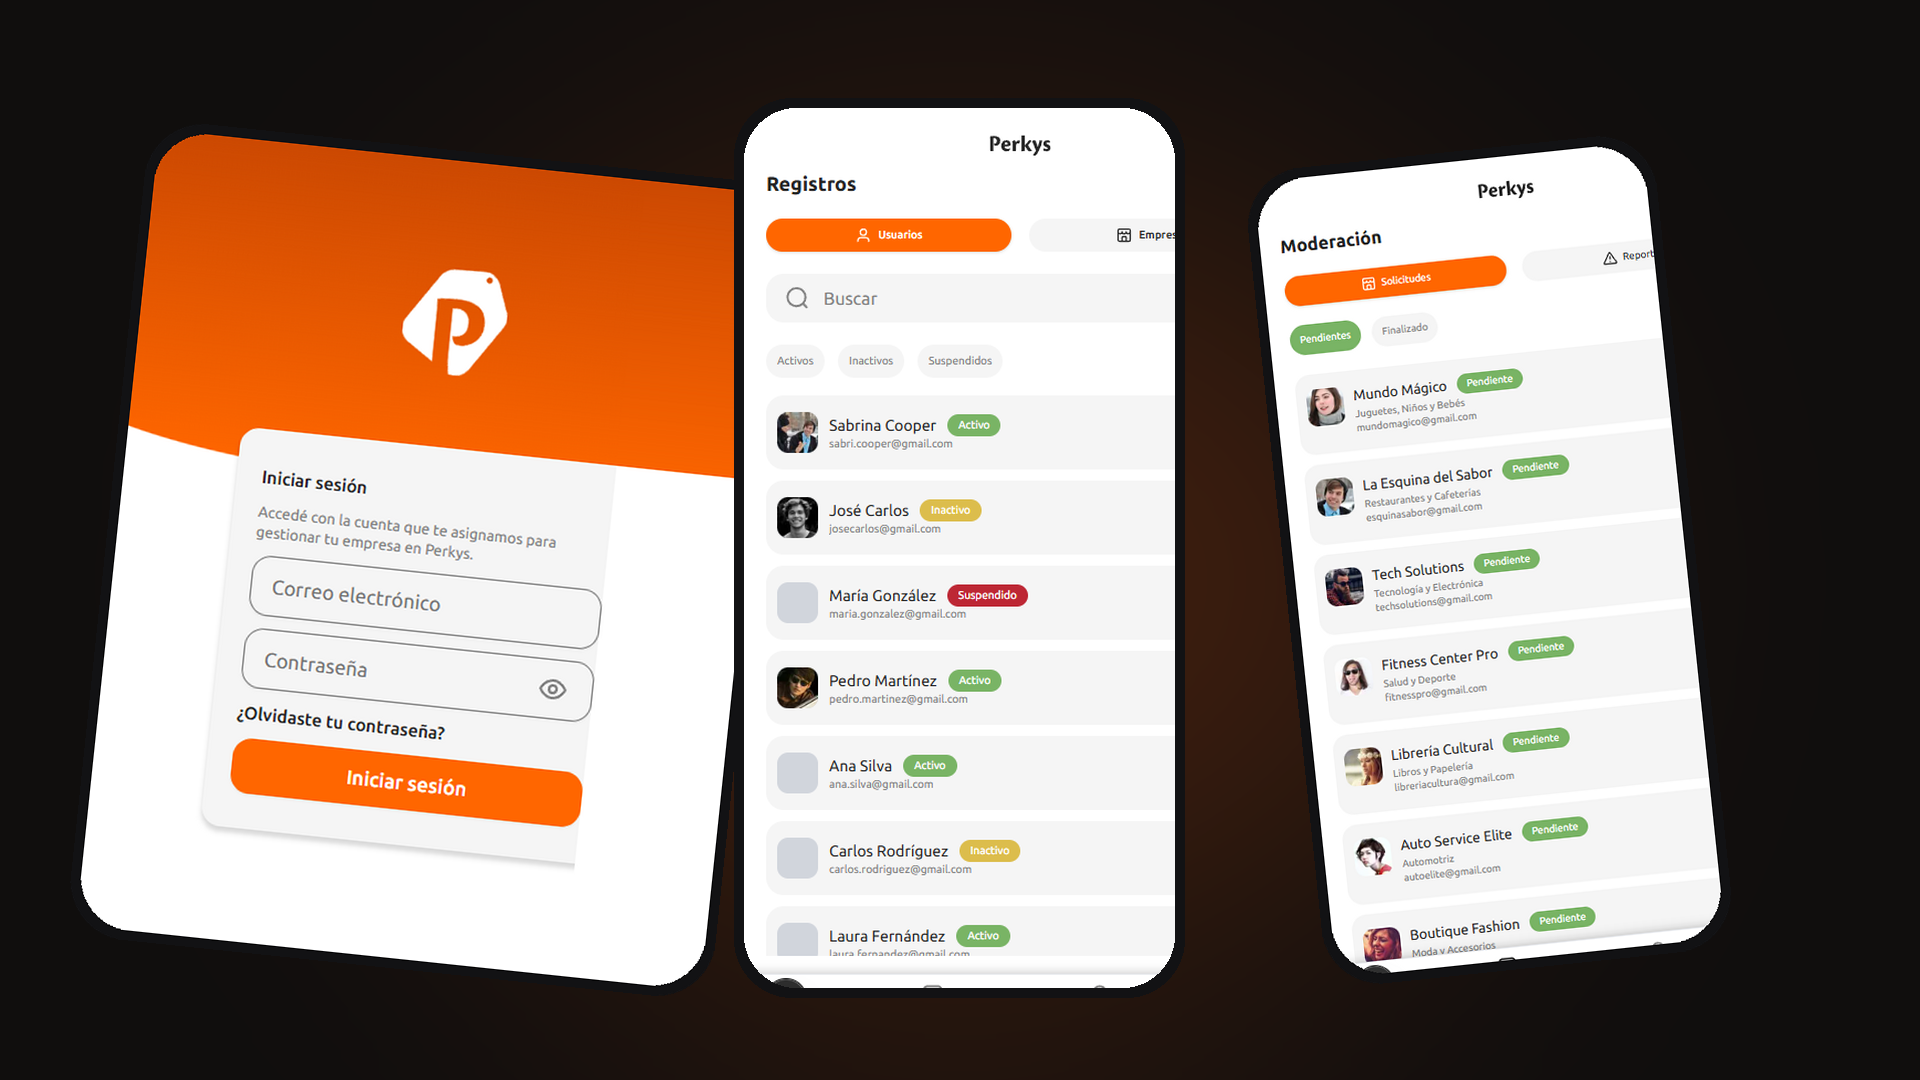
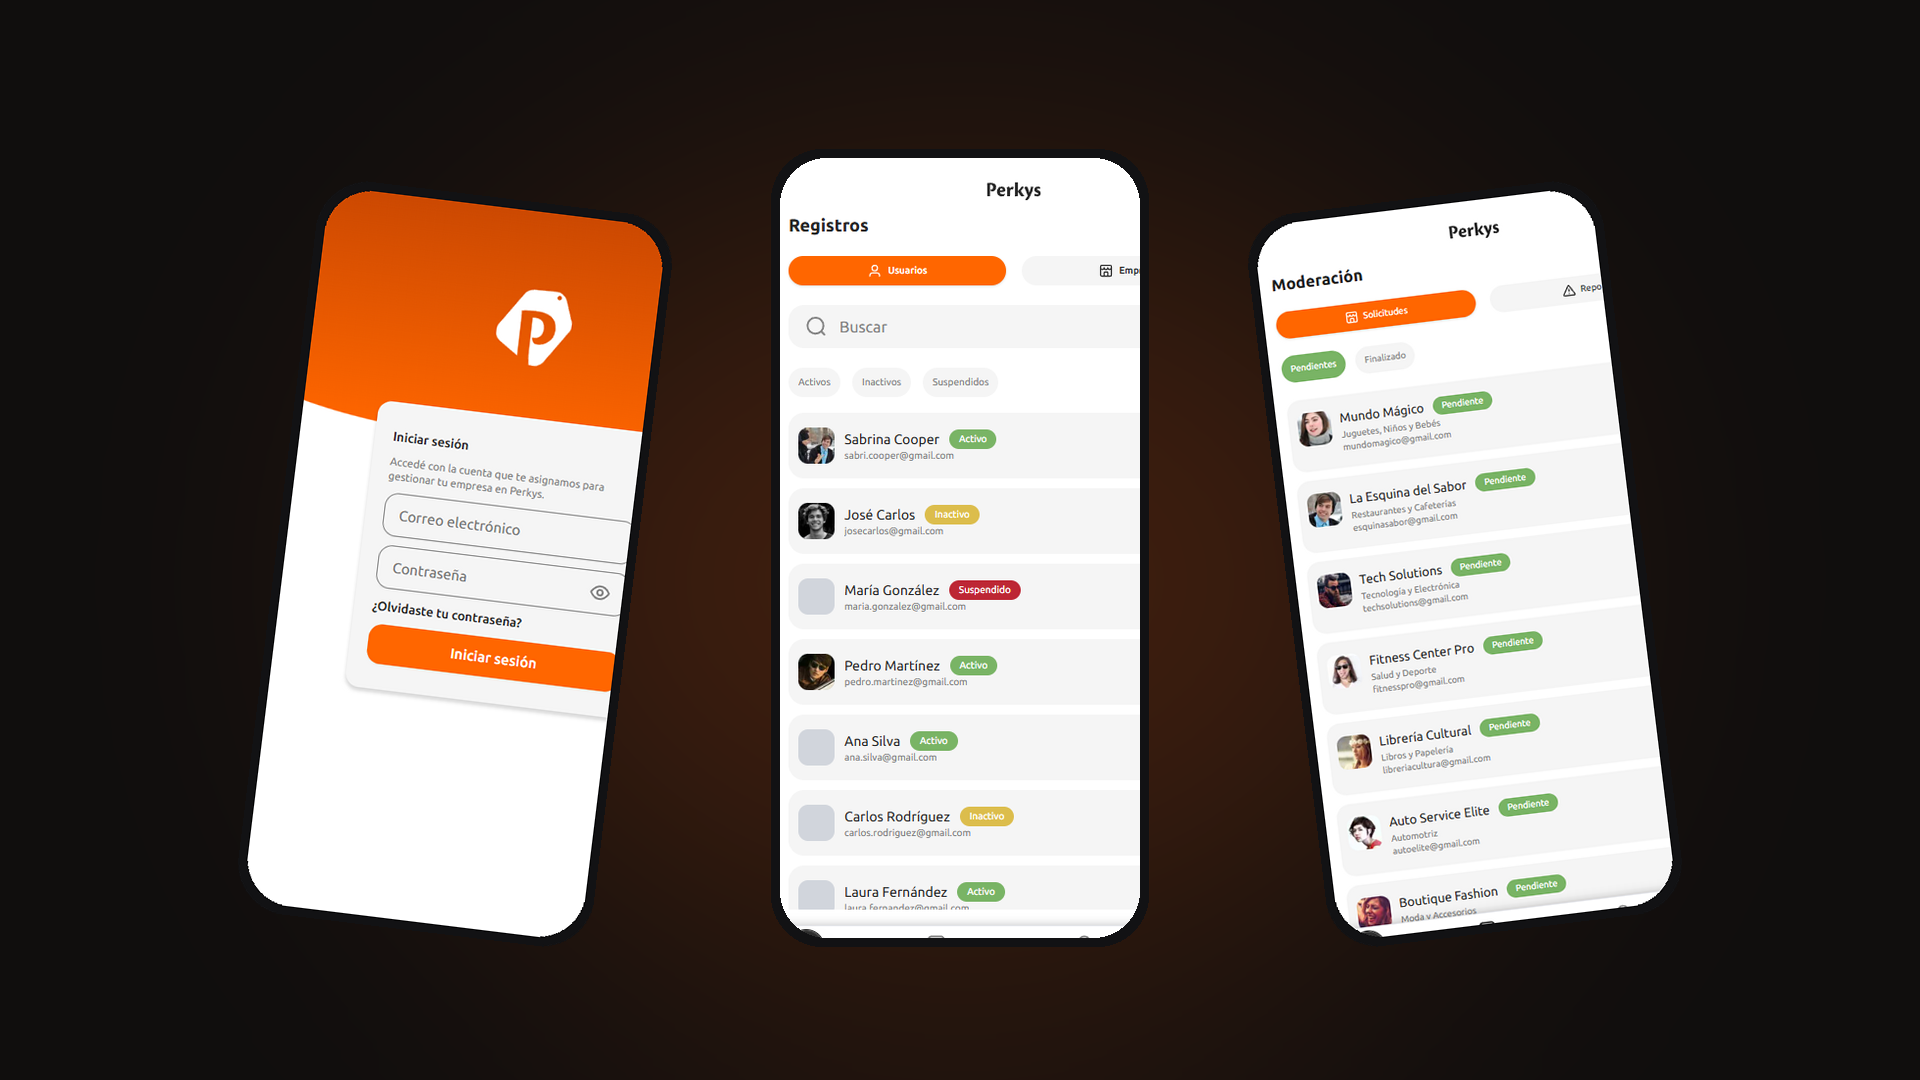
Soften the xenon orb and refresh Cinemaland and Perkys covers.
Cinemaland uses a 2x desktop capture with its own nav, Perkys phones share one slim frame, and Enviar shows a pointer.

Changed region(s): [[0.0312, 0.0917, 0.625, 0.9167], [0.6562, 0.1222, 0.9062, 0.9167]]

diff --git a/app/globals.css b/app/globals.css
@@ -182,23 +182,21 @@ body::after {
   top: 0;
   left: 0;
   z-index: 15;
-  width: 34rem;
-  height: 34rem;
-  margin: -17rem 0 0 -17rem;
+  width: 18rem;
+  height: 18rem;
+  margin: -9rem 0 0 -9rem;
   border-radius: 50%;
   pointer-events: none;
   will-change: transform;
   mix-blend-mode: screen;
-  background:
-    radial-gradient(
-      circle at 50% 48%,
-      rgba(255, 252, 255, 0.72) 0%,
-      rgba(255, 232, 240, 0.42) 18%,
-      rgba(255, 186, 214, 0.2) 38%,
-      rgba(255, 160, 196, 0.07) 58%,
-      transparent 72%
-    );
-  filter: blur(18px);
+  background: radial-gradient(
+    circle at 50% 48%,
+    rgba(255, 248, 252, 0.28) 0%,
+    rgba(255, 217, 232, 0.14) 28%,
+    rgba(255, 186, 214, 0.05) 52%,
+    transparent 70%
+  );
+  filter: blur(22px);
 }
 
 @media (prefers-reduced-motion: reduce) {

diff --git a/components/home/HomeContact.tsx b/components/home/HomeContact.tsx
@@ -144,7 +144,7 @@ export function HomeContact() {
 
           <button
             type="submit"
-            className="xenon-fill inline-flex w-fit rounded-full bg-[var(--accent)] px-6 py-3 text-sm font-medium text-[var(--accent-fg)] transition-transform hover:scale-[0.98] active:scale-[0.97]"
+            className="xenon-fill inline-flex w-fit cursor-pointer rounded-full bg-[var(--accent)] px-6 py-3 text-sm font-medium text-[var(--accent-fg)] transition-transform hover:scale-[0.98] active:scale-[0.97]"
           >
             {t.contactSend}
           </button>
